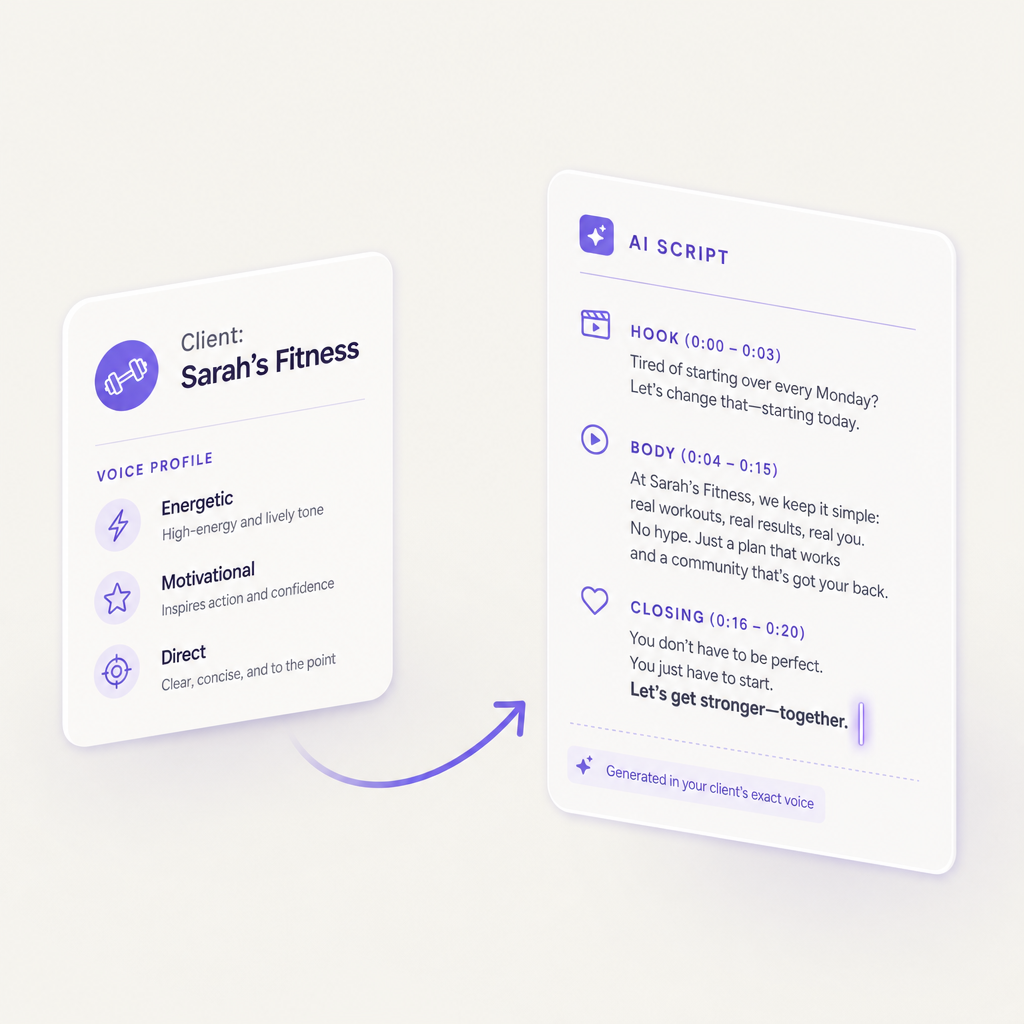
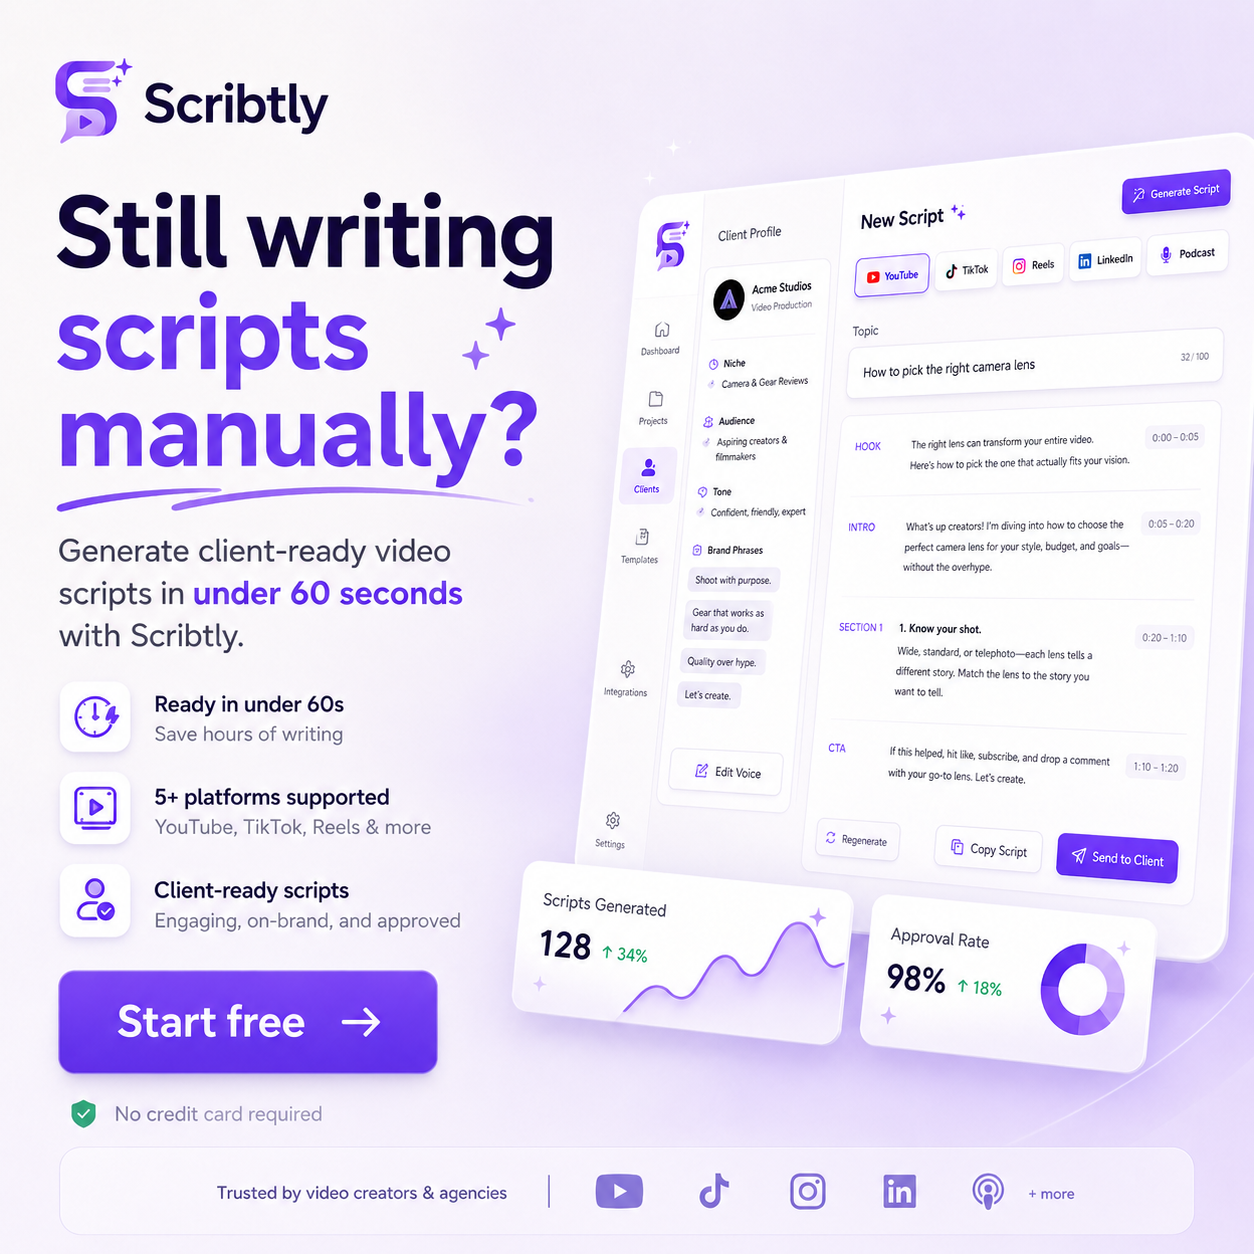
feat: add 10 AI brand images and wire them into the site
- Copy ChatGPT-generated images to public/brand/ (logo-icon, og-hero,
  social-banner, dashboard-preview, feature-voice, feature-library,
  feature-pipeline, feature-export, onboarding-hero, pricing-hero)
- Homepage: add feature-library and feature-pipeline rows to visual
  features section
- Pricing page: add pricing-hero image above the plan cards
- Onboarding layout: split layout on desktop with onboarding-hero on
  the left panel

diff --git a/app/(marketing)/page.tsx b/app/(marketing)/page.tsx
@@ -380,9 +380,9 @@ export default function HomePage() {
               <div className="relative rounded-xl overflow-hidden shadow-[0_20px_60px_rgba(127,119,221,0.2)] ring-1 ring-[var(--color-border)]">
                 <Image
                   src="/brand/feature-voice.png"
-                  alt="Client voice profile being converted into a formatted AI script"
-                  width={1024}
-                  height={1024}
+                  alt="Scribtly generate page showing client-ready scripts in seconds"
+                  width={1200}
+                  height={1200}
                   className="w-full h-auto"
                 />
               </div>
@@ -412,6 +412,67 @@ export default function HomePage() {
                 <Link href="/signup">
                   <Button variant="outline" size="sm" className="inline-flex items-center gap-2">
                     See all platforms <ArrowRight size={13} />
+                  </Button>
+                </Link>
+              </div>
+            </div>
+          </ScrollReveal>
+
+          {/* Library feature */}
+          <ScrollReveal delay={80}>
+            <div className="grid grid-cols-1 md:grid-cols-2 gap-10 items-center">
+              <div>
+                <span className="text-xs font-semibold uppercase tracking-widest text-primary mb-3 block">Script library</span>
+                <h2 className="text-2xl md:text-3xl font-semibold tracking-tight mb-4">
+                  Every script, always within reach
+                </h2>
+                <p className="text-text-secondary dark:text-dark-muted text-sm leading-relaxed mb-6">
+                  All your scripts organised by client, platform, and date. Search, filter, reuse, or export any script in seconds — no more digging through Google Docs or email threads.
+                </p>
+                <Link href="/signup">
+                  <Button variant="outline" size="sm" className="inline-flex items-center gap-2">
+                    Start building your library <ArrowRight size={13} />
+                  </Button>
+                </Link>
+              </div>
+              <div className="relative rounded-xl overflow-hidden shadow-[0_20px_60px_rgba(127,119,221,0.2)] ring-1 ring-[var(--color-border)]">
+                <Image
+                  src="/brand/feature-library.png"
+                  alt="Script library grid showing client scripts organised by platform"
+                  width={1024}
+                  height={1024}
+                  className="w-full h-auto"
+                />
+              </div>
+            </div>
+          </ScrollReveal>
+
+          {/* Pipeline feature */}
+          <ScrollReveal delay={80}>
+            <div className="grid grid-cols-1 md:grid-cols-2 gap-10 items-center">
+              <div className="order-2 md:order-1 relative rounded-xl overflow-hidden shadow-[0_20px_60px_rgba(127,119,221,0.2)] ring-1 ring-[var(--color-border)]">
+                <Image
+                  src="/brand/feature-pipeline.png"
+                  alt="Content pipeline Kanban board showing scripts moving from Idea to Published"
+                  width={1024}
+                  height={1024}
+                  className="w-full h-auto"
+                />
+              </div>
+              <div className="order-1 md:order-2">
+                <span className="text-xs font-semibold uppercase tracking-widest text-primary mb-3 block">
+                  Content pipeline
+                  <span className="ml-2 text-[10px] px-1.5 py-0.5 rounded bg-primary/10 text-primary normal-case tracking-normal">Pro</span>
+                </span>
+                <h2 className="text-2xl md:text-3xl font-semibold tracking-tight mb-4">
+                  Track every script from idea to published
+                </h2>
+                <p className="text-text-secondary dark:text-dark-muted text-sm leading-relaxed mb-6">
+                  Drag scripts through Idea → Scripting → Review → Approved → Published. Never lose track of what's in progress across all your clients.
+                </p>
+                <Link href="/signup?plan=PRO">
+                  <Button variant="outline" size="sm" className="inline-flex items-center gap-2">
+                    Unlock pipeline <ArrowRight size={13} />
                   </Button>
                 </Link>
               </div>

diff --git a/app/(onboarding)/layout.tsx b/app/(onboarding)/layout.tsx
@@ -1,4 +1,5 @@
 import Link from "next/link";
+import Image from "next/image";
 import type { Metadata } from "next";
 
 export const metadata: Metadata = {
@@ -8,14 +9,40 @@ export const metadata: Metadata = {
 export default function OnboardingLayout({ children }: { children: React.ReactNode }) {
   return (
     <div className="min-h-screen flex flex-col bg-[var(--color-bg)]">
-      <header className="flex items-center justify-center py-6">
+      <header className="flex items-center justify-center py-6 md:hidden">
         <Link href="/" className="text-xl font-semibold tracking-tight text-text-primary">
           Scribtly
         </Link>
       </header>
-      <main className="flex-1 flex flex-col items-center justify-start px-4 pb-16">
-        {children}
-      </main>
+
+      <div className="flex-1 flex flex-col md:flex-row">
+        {/* Left panel — hero image, desktop only */}
+        <div className="hidden md:flex md:w-[44%] lg:w-1/2 relative bg-[#EEEDFE] items-center justify-center p-10 sticky top-0 h-screen">
+          <div className="w-full max-w-md">
+            <Link href="/" className="block mb-8 text-xl font-semibold tracking-tight text-text-primary">
+              Scribtly
+            </Link>
+            <div className="rounded-2xl overflow-hidden shadow-[0_24px_80px_rgba(127,119,221,0.25)]">
+              <Image
+                src="/brand/onboarding-hero.png"
+                alt="Set up your first client profile in Scribtly"
+                width={1024}
+                height={1024}
+                className="w-full h-auto"
+                priority
+              />
+            </div>
+            <p className="mt-6 text-sm text-text-secondary text-center">
+              Set up once. Generate forever.
+            </p>
+          </div>
+        </div>
+
+        {/* Right panel — form */}
+        <main className="flex-1 flex flex-col items-center justify-start px-4 py-10 md:py-16 md:overflow-y-auto">
+          {children}
+        </main>
+      </div>
     </div>
   );
 }

diff --git a/app/(marketing)/pricing/page.tsx b/app/(marketing)/pricing/page.tsx
@@ -2,6 +2,7 @@
 
 import { useState } from "react";
 import Link from "next/link";
+import Image from "next/image";
 import { Check, X, Sparkles, ArrowRight, ShieldCheck, RotateCcw, Zap } from "lucide-react";
 import { Button } from "@/components/ui/Button";
 import { PricingSlider, type PlanId } from "@/components/marketing/PricingSlider";
@@ -125,8 +126,22 @@ export default function PricingPage() {
 
   return (
     <>
+      {/* ── PRICING HERO IMAGE ── */}
+      <section className="max-w-3xl mx-auto px-5 pt-12 pb-0">
+        <div className="rounded-2xl overflow-hidden shadow-[0_20px_60px_rgba(127,119,221,0.18)] ring-1 ring-[var(--color-border)]">
+          <Image
+            src="/brand/pricing-hero.png"
+            alt="Scribtly pricing tiers — Free, Pro and Agency plans"
+            width={1536}
+            height={1024}
+            className="w-full h-auto"
+            priority
+          />
+        </div>
+      </section>
+
       {/* ── HERO ── */}
-      <section className="max-w-4xl mx-auto px-5 pt-16 pb-8 text-center">
+      <section className="max-w-4xl mx-auto px-5 pt-10 pb-8 text-center">
         <div className="inline-flex items-center gap-2 rounded-full border-hair border-[var(--color-border)] bg-[var(--color-surface)] px-3 py-1.5 text-xs text-text-secondary dark:text-dark-muted mb-5 shadow-sm">
           <Sparkles size={11} className="text-primary" />
           Launch pricing — lock in your rate early